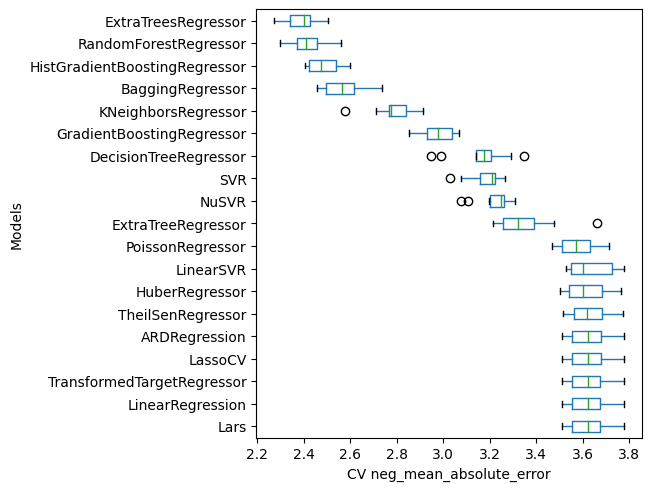
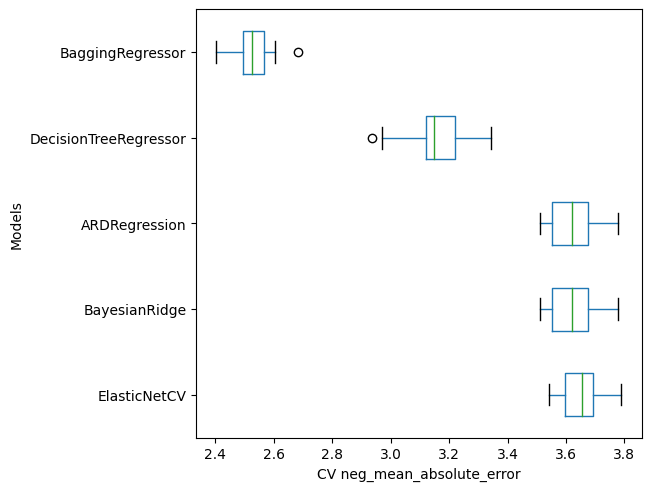
Progress 4:11p 11/7/22

Changed region(s): [[0.0307, 0.0305, 0.9831, 1.0], [0.553, 0.2138, 0.9831, 0.8859], [0.3072, 0.8859, 0.3379, 0.947]]

diff --git a/AutoML/ScikitLearn/Sim_v5/SimultRegRun_v5.py b/AutoML/ScikitLearn/Sim_v5/SimultRegRun_v5.py
@@ -128,14 +128,18 @@ def run(model, metric_list, train_attrib, train_labels):
 
 #metric must be a string
 #show is how many of top models are vizualized
-def boxplot(cv_data, passed_models, metric, show, metric_help):
+def boxplot(cv_data, passed_models, metric, n_vizualized, metric_help):
+    print(passed_models)
+    print(metric)
+    print(n_vizualized)
     boxfig = plt.figure(constrained_layout=True)
     df = pd.DataFrame()
     for i,j in zip(cv_data,passed_models):
             df[j] = list(i['test_'+metric]*metric_help[metric][1])
     sorted_index = df.median().sort_values(ascending=metric_help[metric][0]).index
     df_sorted = df_sorted=df[sorted_index]
-    df_sorted.iloc[:,show:].boxplot(vert=False,grid=False)
+    print(df_sorted)
+    df_sorted.iloc[:,len(df_sorted.columns)-n_vizualized:].boxplot(vert=False,grid=False)
     plt.xlabel(f'CV {metric}')
     plt.ylabel('Models')
     return boxfig
@@ -154,13 +158,16 @@ def test_best(cv_data, passed_models, metric_list, test_attrib, test_labels, met
                 best = y[j]
         predictions = best.predict(test_attrib)
         for k in metric_columns:
-            k[1] += [round(metric_help[k[0]][2](test_labels,predictions),4)]
+            if k[0] == 'neg_root_mean_squared_error':
+                k[1] += [round(np.sqrt(metric_help[k[0]][2](test_labels,predictions)),4)]
+            else:
+                k[1] += [round(metric_help[k[0]][2](test_labels,predictions),4)]
     columnnames = metric_list
     final_columns = []
     for m in metric_columns:
         final_columns += [m[1]]
     df = pd.DataFrame(np.array(final_columns).T,index=passed_models,columns=columnnames)
-    sorted_df = df.sort_values(by=metric_list[0],ascending=metric_help[metric][0])
+    sorted_df = df.sort_values(by=metric_list[0],ascending=not(metric_help[metric][0]))
     fig, ax = plt.subplots()
     fig.patch.set_visible(False)
     ax.axis('off')
@@ -171,9 +178,9 @@ def test_best(cv_data, passed_models, metric_list, test_attrib, test_labels, met
 
 
 paramdict = {'datapath': 'AutoML/PowerPlantData/Folds5x2_pp.csv',
-            'n_models': 'all',
+            'n_models': 8,
             'metric_list': ['neg_root_mean_squared_error','neg_mean_absolute_error','r2'],
-            'n_vizualized': 20,
+            'n_vizualized': 5,
             'metric_help': {'explained_variance': [True, 1, metrics.explained_variance_score], 'max_error': [False, 1, metrics.max_error],
                             'neg_mean_absolute_error': [False, -1, metrics.mean_absolute_error], 'neg_mean_squared_error': [False, -1, metrics.mean_squared_error],
                             'neg_root_mean_squared_error': [False, -1, metrics.mean_squared_error], 'neg_mean_squared_log_error': [False, -1, metrics.mean_squared_log_error],
